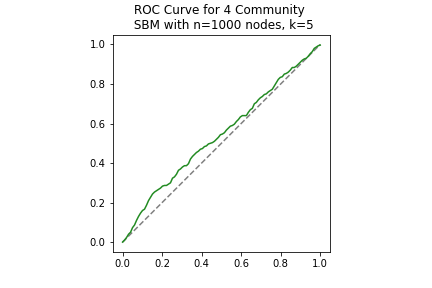
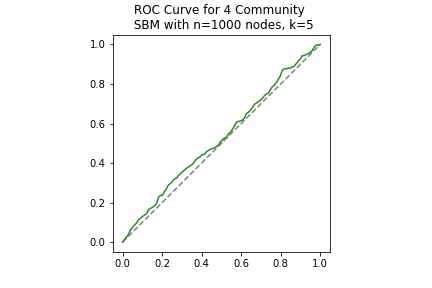
new function edgelist_sample_with_replacement_addRandomEdges added to embedding_functions.py that samples the edgelist with replacement, binarises, then adds random edges so the sampled network has the same number of edges as the observed network

diff --git a/functions_for_bootstrap.py b/functions_for_bootstrap.py
@@ -196,6 +196,38 @@ def edgelist_sample_with_replacement(A):
     return(A_new)
     
     
+def edgelist_sample_with_replacement_addRandomEdges(A):
+    """Actually just samples with replacement. As a binary setting, any edge selected more than once will be set to 1
+    Random edges will be populated so that the observed and the bootstrapped matrix have the same number of edges
+    """
+    number_edges = np.count_nonzero(A)
+    # find the edge locations
+    edges = np.transpose(np.nonzero(A))
+    # sample the edges with replacement
+    edge_idx = random.choices(range(0,number_edges), k=number_edges)
+    # remove duplicates
+    edge_idx = list(set(edge_idx))
+    # create an array from edges with the sampled indices
+    edge_sample = edges[edge_idx]
+    n = A.shape[0]
+    A_new = np.zeros((n,n))
+    # populate A_new with a 1 where edge_sample is the index
+    for e in range(len(edge_sample)):
+        edge_id = edge_sample[e]
+        A_new[edge_id[0], edge_id[1]] = 1
+        
+    # add in random edges
+    num_to_add = number_edges - len(edge_sample)
+    while num_to_add > 0:
+        i, j = np.random.randint(low=0, high=n, size=2)
+        # check not in edges
+        if A_new[i, j] == 0:
+            A_new[i, j] = 1
+            # if not in edge, add to edge_sample, else repeat loop
+            num_to_add -= 1
+    
+    return A_new
+    
     
 
 
